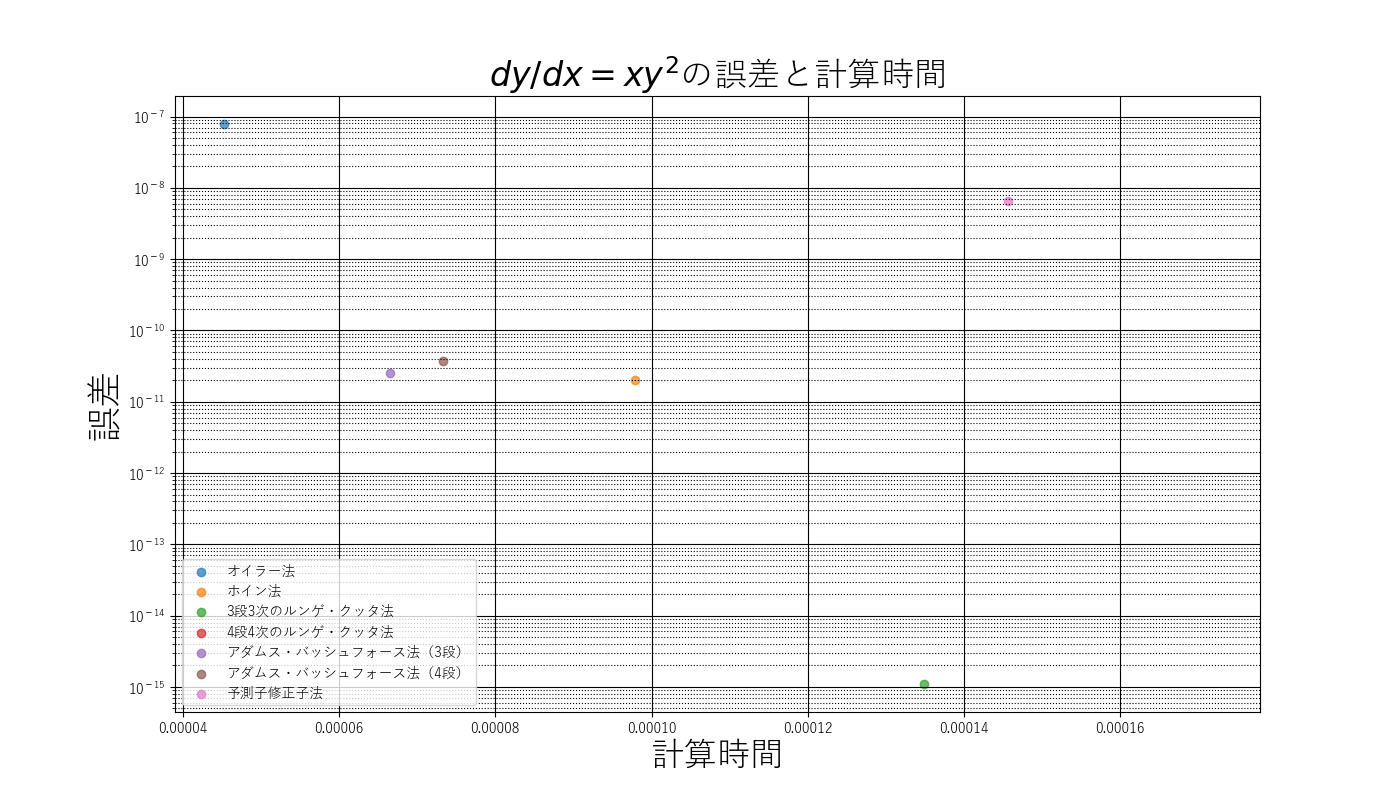
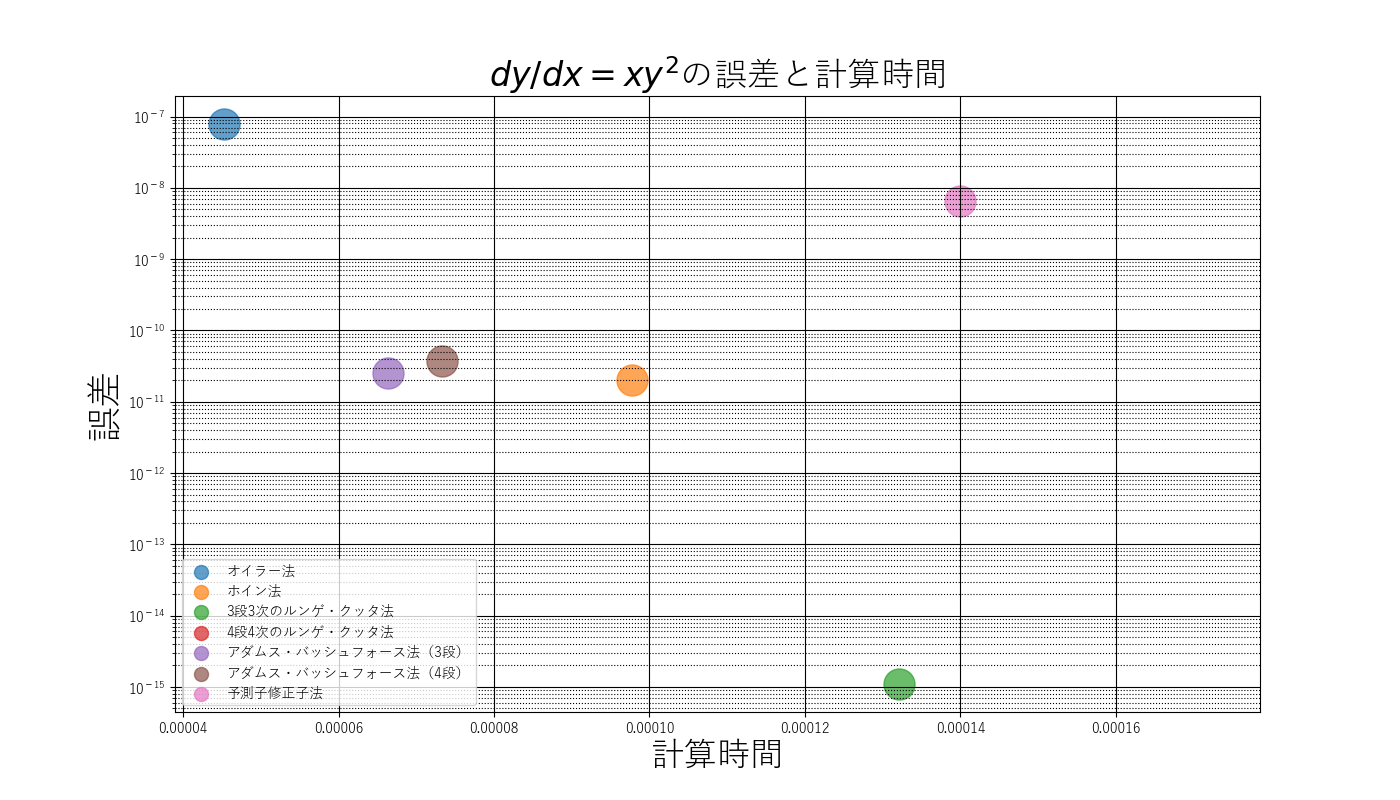
change marker size

diff --git a/CalVis/make_error_graph.py b/CalVis/make_error_graph.py
@@ -26,7 +26,7 @@ unique_labels = labels.unique()
 plt.figure(figsize=(14, 8))
 for label in unique_labels:
     subset = df[labels == label]
-    plt.scatter(subset.iloc[:, 3], subset.iloc[:, 2], label=label, alpha=0.7)
+    plt.scatter(subset.iloc[:, 3], subset.iloc[:, 2], label=label, alpha=0.7, s=500)
 
 # Y軸を対数スケールにする場合（必要に応じてコメントアウト解除）
 plt.yscale('log')
@@ -35,7 +35,7 @@ plt.yscale('log')
 plt.xlabel('計算時間', fontsize=24)
 plt.ylabel('誤差', fontsize=26)
 plt.title("$dy/dx = xy^{2}$の誤差と計算時間", fontsize=24)
-plt.legend(fontsize=10)
+plt.legend(fontsize=10, markerscale=0.45)
 plt.grid(which='major',color='black',linestyle='-')
 plt.grid(which='minor',color='black',linestyle=':')
 plt.show()

diff --git a/CalVis/make_result_graph.py b/CalVis/make_result_graph.py
@@ -28,7 +28,7 @@ unique_labels = labels.unique()
 plt.figure(figsize=(14, 8))
 for label in unique_labels:
     subset = df[labels == label]
-    plt.scatter(subset.iloc[:, 3], subset.iloc[:, 1], label=label, alpha=0.7)
+    plt.scatter(subset.iloc[:, 3], subset.iloc[:, 1], label=label, alpha=0.7, s=500)
 
 
 # y = -0.001 の横線を描画
@@ -43,7 +43,7 @@ plt.gca().yaxis.set_major_formatter(FormatStrFormatter('%.8f'))
 plt.xlabel('計算時間', fontsize=24)
 plt.ylabel('計算結果', fontsize=24)
 plt.title("$dy/dx = xy^{2}$の計算結果と計算時間", fontsize=24)
-plt.legend(fontsize=12)
+plt.legend(fontsize=12, markerscale=0.45)
 plt.grid(True)
 plt.show()
 
